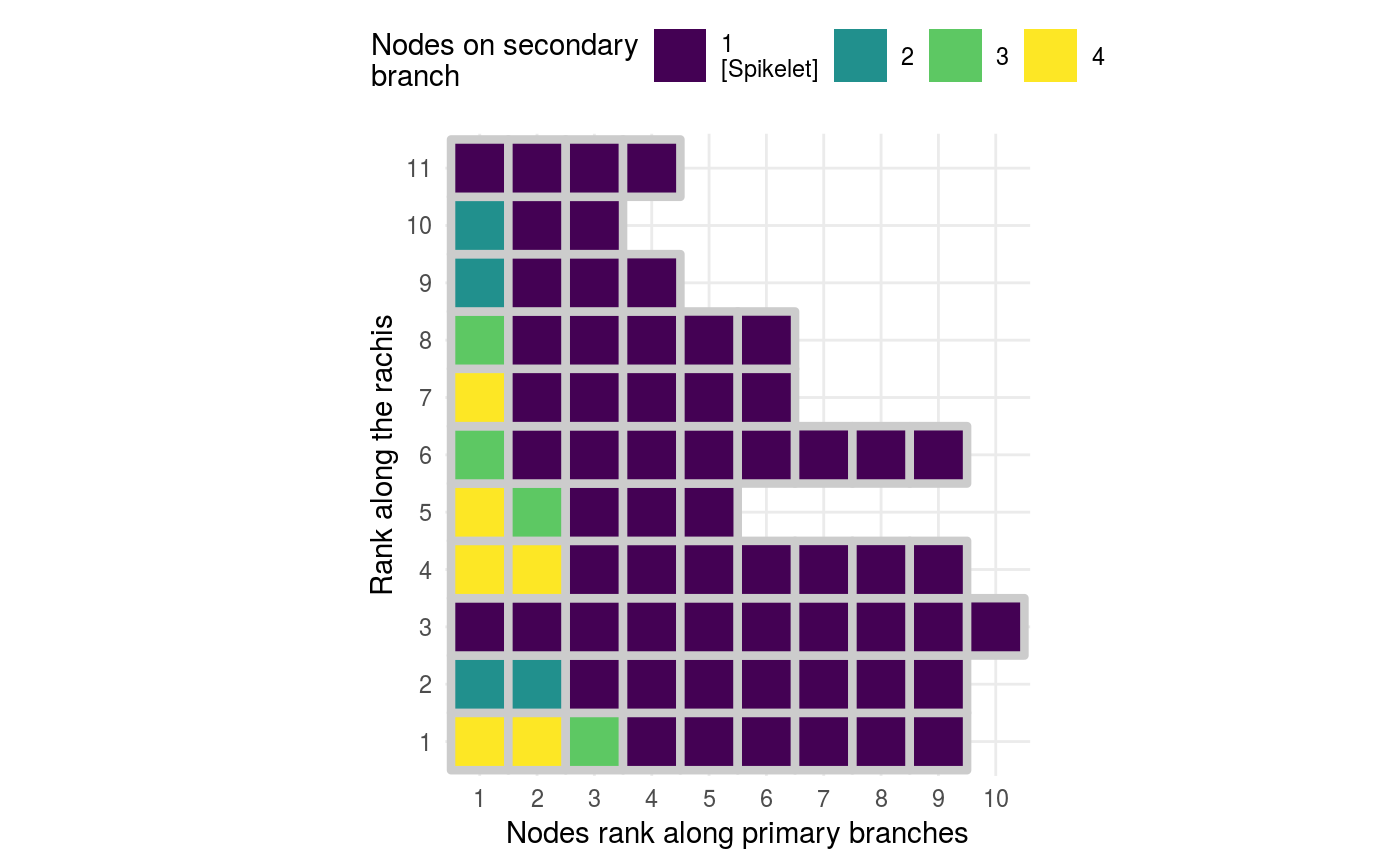
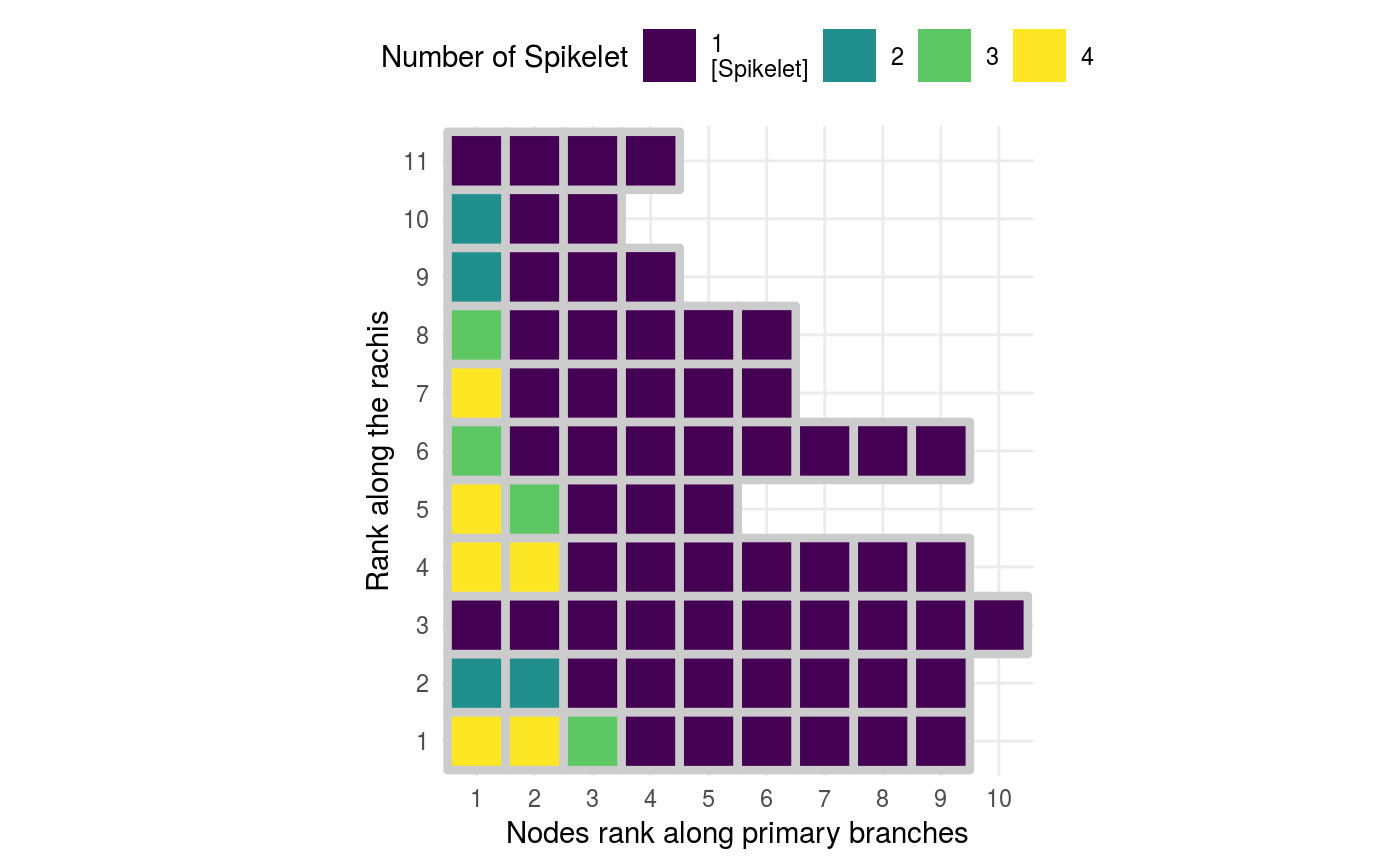
rebuild website

diff --git a/docs/articles/04-visualize-many-panicles-loop-r.html b/docs/articles/04-visualize-many-panicles-loop-r.html
@@ -98,7 +98,7 @@
       <h1>04 - Visualize Many Panicles at Once With a Loop</h1>
                         <h4 class="author">Otho Mantegazza</h4>
             
-            <h4 class="date">2019-03-04</h4>
+            <h4 class="date">2019-03-13</h4>
       
       <small class="dont-index">Source: <a href="https://github.com/othomantegazza/ptrapr/blob/master/vignettes/04-visualize-many-panicles-loop-r.Rmd"><code>vignettes/04-visualize-many-panicles-loop-r.Rmd</code></a></small>
       <div class="hidden name"><code>04-visualize-many-panicles-loop-r.Rmd</code></div>
@@ -108,7 +108,7 @@
     
     
 <p>Here you will learn how to visualize the structure and the topology of many panicles with a loop.</p>
-<p>There are many ways to achieve this, hereby we provide some ideas on how to do it. Feel free to modify and imporve the workflow that we propose. Feel free also to suggest us how to improve this workflow, to do so, contact us through issues and pull requests.</p>
+<p>There are many ways to achieve this, hereby we provide some ideas on how to do it. Feel free to modify and improve the workflow that we propose. Feel free also to suggest us how to improve this workflow, to do so, contact us through issues and pull requests.</p>
 <div id="setup" class="section level1">
 <h1 class="hasAnchor">
 <a href="#setup" class="anchor"></a>setup</h1>
@@ -123,7 +123,7 @@
 <div id="place-all-files-in-one-single-folder" class="section level1">
 <h1 class="hasAnchor">
 <a href="#place-all-files-in-one-single-folder" class="anchor"></a>Place All files in one single folder</h1>
-<p>Place the structure files (<code>.ricepr</code>) and their corrispective grain files (<code>ricegr</code>) of all the panicles that you want to analyze in one single folder. For every single panicle the name of the <code>.ricepr</code> file and the name of the <code>.ricegr</code> file must be exaclty the same (obviously beside the extension).</p>
+<p>Place the structure files (<code>.ricepr</code>) and their corresponding grain files (<code>ricegr</code>) of all the panicles that you want to analyze in one single folder. For every single panicle the name of the <code>.ricepr</code> file and the name of the <code>.ricegr</code> file must be exactly the same (obviously beside the extension).</p>
 <p>That folder must contain nothing else.</p>
 <p>For all the files stored in one folder, we prepare their paths in a list in this way:</p>
 <div class="sourceCode"><pre class="sourceCode r"><code class="sourceCode r"><span class="co"># First store the path to your folder</span>
@@ -149,7 +149,7 @@ panicle_paths</code></pre></div>
 panicle_paths &lt;-
 <span class="st">  </span>panicle_paths <span class="op">%&gt;%</span><span class="st"> </span>
 <span class="st">  </span>{<span class="kw"><a href="https://www.rdocumentation.org/packages/magrittr/topics/aliases">set_names</a></span>(<span class="dt">x =</span> <span class="kw"><a href="https://www.rdocumentation.org/packages/base/topics/paste">paste</a></span>(path_to_folder, ., <span class="dt">sep =</span> <span class="st">"/"</span>), <span class="dt">nm =</span> .)}</code></pre></div>
-<p>Now the object <code>panicle_paths</code> stores the paths to al the panicles in a named object.</p>
+<p>Now the object <code>panicle_paths</code> stores the paths to all the panicles in a named object.</p>
 <div class="sourceCode"><pre class="sourceCode r"><code class="sourceCode r">panicle_paths</code></pre></div>
 <div class="sourceCode"><pre class="sourceCode r"><code class="sourceCode r">## 1_1_6307 
 ## ptrapr/extdata/1_1_6307" 
@@ -173,7 +173,7 @@ panicle_paths &lt;-
 <div id="parse-all-panicles" class="section level1">
 <h1 class="hasAnchor">
 <a href="#parse-all-panicles" class="anchor"></a>Parse All Panicles</h1>
-<p>Afterwards, you can loop the main worflow on the named object <code>panicle_paths</code> with <code><a href="https://purrr.tidyverse.org/reference/map.html">map()</a></code>. This function from the package <code>purrr</code> is convenient because it loops over r objects preserving their names.</p>
+<p>Afterwards, you can loop the main workflow on the named object <code>panicle_paths</code> with <code><a href="https://purrr.tidyverse.org/reference/map.html">map()</a></code>. This function from the package <code>purrr</code> is convenient because it loops over r objects preserving their names.</p>
 <p>Here we show you how build loops over the functions of <code>ptrapr</code> one by one.</p>
 <p>First parse and load all the files with <code><a href="../reference/read_full_panicle.html">read_full_panicle()</a></code>.</p>
 <div class="sourceCode"><pre class="sourceCode r"><code class="sourceCode r"><span class="co"># Parse them in a list, using file name as list names</span>
@@ -206,11 +206,11 @@ panicle_list &lt;-<span class="st"> </span>
 <li>and a <code><a href="../reference/panicle_tileplot.html">panicle_tileplot()</a></code> that focuses on the topology of branching.</li>
 </ul>
 <p>You can combine plots in many ways. Hereby we use the package <a href="https://cran.r-project.org/web/packages/cowplot/vignettes/introduction.html"><code>cowplot</code></a>.</p>
-<p>Although we provide the plotting funcitions <code>panicle_plot()</code> and <code><a href="../reference/panicle_tileplot.html">panicle_tileplot()</a></code>, which are based on <code>ggplot2</code> and ggraph, we suggest you that you design your own plotting functions, because only this way you’ll achieve the versatility required for exploratory data analysis. You can learn how to design your own plotting functions in the previous vignettes.</p>
+<p>Although we provide the plotting functions <code>panicle_plot()</code> and <code><a href="../reference/panicle_tileplot.html">panicle_tileplot()</a></code>, which are based on <code>ggplot2</code> and ggraph, we suggest you that you design your own plotting functions, because only this way you’ll achieve the versatility required for exploratory data analysis. You can learn how to design your own plotting functions in the previous vignettes.</p>
 <div id="how-to-wrap-iterate-over-multiple-plot-functions" class="section level2">
 <h2 class="hasAnchor">
 <a href="#how-to-wrap-iterate-over-multiple-plot-functions" class="anchor"></a>How to wrap iterate over multiple plot functions</h2>
-<p>So, we want to wrap <code>panicle_plot()</code> and <code><a href="../reference/panicle_tileplot.html">panicle_tileplot()</a></code>into another function, to plot together different panicle visualisations, and we want to loop that wrapper over a list of panicle using the name of the panicle file of as title of the plots.</p>
+<p>So, we want to wrap <code>panicle_plot()</code> and <code><a href="../reference/panicle_tileplot.html">panicle_tileplot()</a></code>into another function, to plot together different panicle visualizations, and we want to loop that wrapper over a list of panicle using the name of the panicle file of as title of the plots.</p>
 <p>To use the name as title, you will have to loop over the names of <code>panicle_list</code> instead of the list itself.</p>
 <p>(If you want to master details and quirks of loops and iteration in R, you can <a href="https://adv-r.hadley.nz/functionals.html">learn about them in here</a>).</p>
 <p>This might be the most difficult part. We draft a the <code>plot_both()</code> function, that returns a plot (grob) list. and we feed that list to cowplot.</p>

diff --git a/docs/articles/01-load-files.html b/docs/articles/01-load-files.html
@@ -98,7 +98,7 @@
       <h1>01 - Load Panicles Files Into R</h1>
                         <h4 class="author">Otho Mantegazza</h4>
             
-            <h4 class="date">2019-03-04</h4>
+            <h4 class="date">2019-03-13</h4>
       
       <small class="dont-index">Source: <a href="https://github.com/othomantegazza/ptrapr/blob/master/vignettes/01-load-files.Rmd"><code>vignettes/01-load-files.Rmd</code></a></small>
       <div class="hidden name"><code>01-load-files.Rmd</code></div>
@@ -138,7 +138,7 @@
 <div id="easily-read-and-plot-the-full-panicle" class="section level2">
 <h2 class="hasAnchor">
 <a href="#easily-read-and-plot-the-full-panicle" class="anchor"></a>Easily read and plot the full panicle</h2>
-<p>We provide a convinent function that loads a full panicle in R: <code><a href="../reference/read_full_panicle.html">read_full_panicle()</a></code>. This funcrtion reads a file tha stores the panicle architecture (that has extension <code>.ricepr</code>) and its counterpart that stores the grain coordinates (that has extension <code>.ricegr</code>) and merges them together.</p>
+<p>We provide a convenient function that loads a full panicle in R: <code><a href="../reference/read_full_panicle.html">read_full_panicle()</a></code>. This function reads a file that stores the panicle architecture (that has extension <code>.ricepr</code>) and its counterpart that stores the grain coordinates (that has extension <code>.ricegr</code>) and merges them together.</p>
 <p>This function requires the path to both files as argument.</p>
 <p>We provide examples of <code>.ricepr</code> and <code>.ricegr</code> files bundled in this package, with the following lines of code you can access those files and load them into R:</p>
 <div class="sourceCode"><pre class="sourceCode r"><code class="sourceCode r"><span class="co"># find a .ricepr file</span>
@@ -212,7 +212,7 @@ panicle &lt;-
 <div id="read-grain-coordinates-with-read_grains" class="section level2">
 <h2 class="hasAnchor">
 <a href="#read-grain-coordinates-with-read_grains" class="anchor"></a>Read Grain Coordinates with read_grains()</h2>
-<p>Likewise, we provide a sample <code>.ricegr</code> file. This file stores coordinates for all the grains on the panicle, but no structual / topological information.</p>
+<p>Likewise, we provide a sample <code>.ricegr</code> file. This file stores coordinates for all the grains on the panicle, but no structural / topological information.</p>
 <div class="sourceCode"><pre class="sourceCode r"><code class="sourceCode r">grain_path &lt;-<span class="st"> </span><span class="kw"><a href="https://www.rdocumentation.org/packages/base/topics/system.file">system.file</a></span>(<span class="st">"extdata/1_1_6307.ricegr"</span>,
                           <span class="dt">package =</span> <span class="st">"ptrapr"</span>)
 
@@ -230,7 +230,7 @@ grains &lt;-<span class="st"> </span>
 <div id="merge-grains-into-the-panicle-graph-with-add_all_grains" class="section level2">
 <h2 class="hasAnchor">
 <a href="#merge-grains-into-the-panicle-graph-with-add_all_grains" class="anchor"></a>Merge Grains into the Panicle Graph with add_all_grains()</h2>
-<p>Including grains into the panicle graph is a non trivial task with no perfect solution. We had best results by assigning the grain to the closest bracnh and by splitting the brach on the grain itself, creating a new intermediate node.</p>
+<p>Including grains into the panicle graph is a non trivial task with no perfect solution. We had best results by assigning the grain to the closest branch and by splitting the branch on the grain itself, creating a new intermediate node.</p>
 <p>You can do this with the function <code><a href="../reference/add_all_grains.html">add_all_grains()</a></code>.</p>
 <div class="sourceCode"><pre class="sourceCode r"><code class="sourceCode r">full_panicle &lt;-<span class="st"> </span>
 <span class="st">  </span>panicle <span class="op">%&gt;%</span>

diff --git a/docs/articles/02-why-invert-edges.html b/docs/articles/02-why-invert-edges.html
@@ -98,7 +98,7 @@
       <h1>02 - Why and How to Invert Edges</h1>
                         <h4 class="author">Otho Mantegazza</h4>
             
-            <h4 class="date">2019-03-04</h4>
+            <h4 class="date">2019-03-13</h4>
       
       <small class="dont-index">Source: <a href="https://github.com/othomantegazza/ptrapr/blob/master/vignettes/02-why-invert-edges.Rmd"><code>vignettes/02-why-invert-edges.Rmd</code></a></small>
       <div class="hidden name"><code>02-why-invert-edges.Rmd</code></div>
@@ -120,8 +120,8 @@
 <h1 class="hasAnchor">
 <a href="#issue---direction-of-the-edges-in-ptrapr-output" class="anchor"></a>Issue - direction of the edges in ptrapr output</h1>
 <p>Sometimes, the direction of the edges in the graphs produced with ptrap is inverted.</p>
-<p>Every edge corrispond to the part of a branch that connect one node to another. By convention each edge should be directed outward: pointing from the node closer to the base of the panicle to the one further away.</p>
-<p>You can understand this better by looking at the panicle graphs: we proveide two panicle graph objects:</p>
+<p>Every edge correspond to the part of a branch that connect one node to another. By convention each edge should be directed outward: pointing from the node closer to the base of the panicle to the one further away.</p>
+<p>You can understand this better by looking at the panicle graphs: we provide two panicle graph objects:</p>
 <ul>
 <li>One named <code>good_panicle</code> in which every edge points outward.</li>
 <li>One named <code>inverted_panicle</code> in which the edges on the main rachis axis point inward.</li>
@@ -130,7 +130,7 @@
 <p>The <code>good_panicle</code> graph has no inverted edges:</p>
 <div class="sourceCode"><pre class="sourceCode r"><code class="sourceCode r">good_panicle <span class="op">%&gt;%</span><span class="st"> </span><span class="kw"><a href="../reference/plot_panicle.html">plot_panicle</a></span>()</code></pre></div>
 <p><img src="02-why-invert-edges_files/figure-html/unnamed-chunk-2-1.png" width="700"></p>
-<p>Compare the previous graph with the one below, repersenting the <code>inverted_panicle</code> object. In the graph below, the edges on the main axis are inverted.</p>
+<p>Compare the previous graph with the one below, representing the <code>inverted_panicle</code> object. In the graph below, the edges on the main axis are inverted.</p>
 <div class="sourceCode"><pre class="sourceCode r"><code class="sourceCode r">inverted_panicle <span class="op">%&gt;%</span><span class="st"> </span><span class="kw"><a href="../reference/plot_panicle.html">plot_panicle</a></span>()</code></pre></div>
 <p><img src="02-why-invert-edges_files/figure-html/unnamed-chunk-3-1.png" width="700"></p>
 </div>

diff --git a/docs/articles/03-dot-plot.html b/docs/articles/03-dot-plot.html
@@ -98,7 +98,7 @@
       <h1>03 - Visualize The Topology of a Panicle</h1>
                         <h4 class="author">Otho Mantegazza</h4>
             
-            <h4 class="date">2019-03-04</h4>
+            <h4 class="date">2019-03-13</h4>
       
       <small class="dont-index">Source: <a href="https://github.com/othomantegazza/ptrapr/blob/master/vignettes/03-dot-plot.Rmd"><code>vignettes/03-dot-plot.Rmd</code></a></small>
       <div class="hidden name"><code>03-dot-plot.Rmd</code></div>
@@ -124,7 +124,7 @@
 <div id="intro-get-data" class="section level1">
 <h1 class="hasAnchor">
 <a href="#intro-get-data" class="anchor"></a>Intro / get data</h1>
-<p>In this Vignette you will learn how to visualize the panicle stucture, with some simple plots that highlight important features such as the number of spikelets, the number of branches and their topology.</p>
+<p>In this Vignette you will learn how to visualize the panicle structure, with some simple plots that highlight important features such as the number of spikelets, the number of branches and their topology.</p>
 <p>We provide the R objects <code>good_panicle</code> and <code>inverted_panicle</code> which store a panicle graph that has been already parsed in R. If you want to learn how to parse panicle XML files, please read the Vignette “Load Panicles into R”.</p>
 <p>Access sample panicle data with:</p>
 <div class="sourceCode"><pre class="sourceCode r"><code class="sourceCode r"><span class="kw"><a href="https://www.rdocumentation.org/packages/utils/topics/data">data</a></span>(good_panicle)
@@ -244,7 +244,7 @@ p2</code></pre></div>
 <span class="st">  </span><span class="co"># Clear axis names</span>
 <span class="st">  </span><span class="kw">labs</span>(<span class="dt">x =</span> <span class="st">"Nodes rank along primary branches"</span>,
        <span class="dt">y =</span> <span class="st">"Rank along the rachis"</span>,
-       <span class="dt">fill =</span> <span class="kw"><a href="https://stringr.tidyverse.org/reference/str_wrap.html">str_wrap</a></span>(<span class="st">"Nodes on secondary branch"</span>, <span class="dt">width =</span> <span class="dv">20</span>))
+       <span class="dt">fill =</span> <span class="kw"><a href="https://stringr.tidyverse.org/reference/str_wrap.html">str_wrap</a></span>(<span class="st">"Number of Spikelet"</span>, <span class="dt">width =</span> <span class="dv">20</span>))
 p3</code></pre></div>
 <p><img src="03-dot-plot_files/figure-html/unnamed-chunk-7-1.png" width="700"></p>
 </div>
